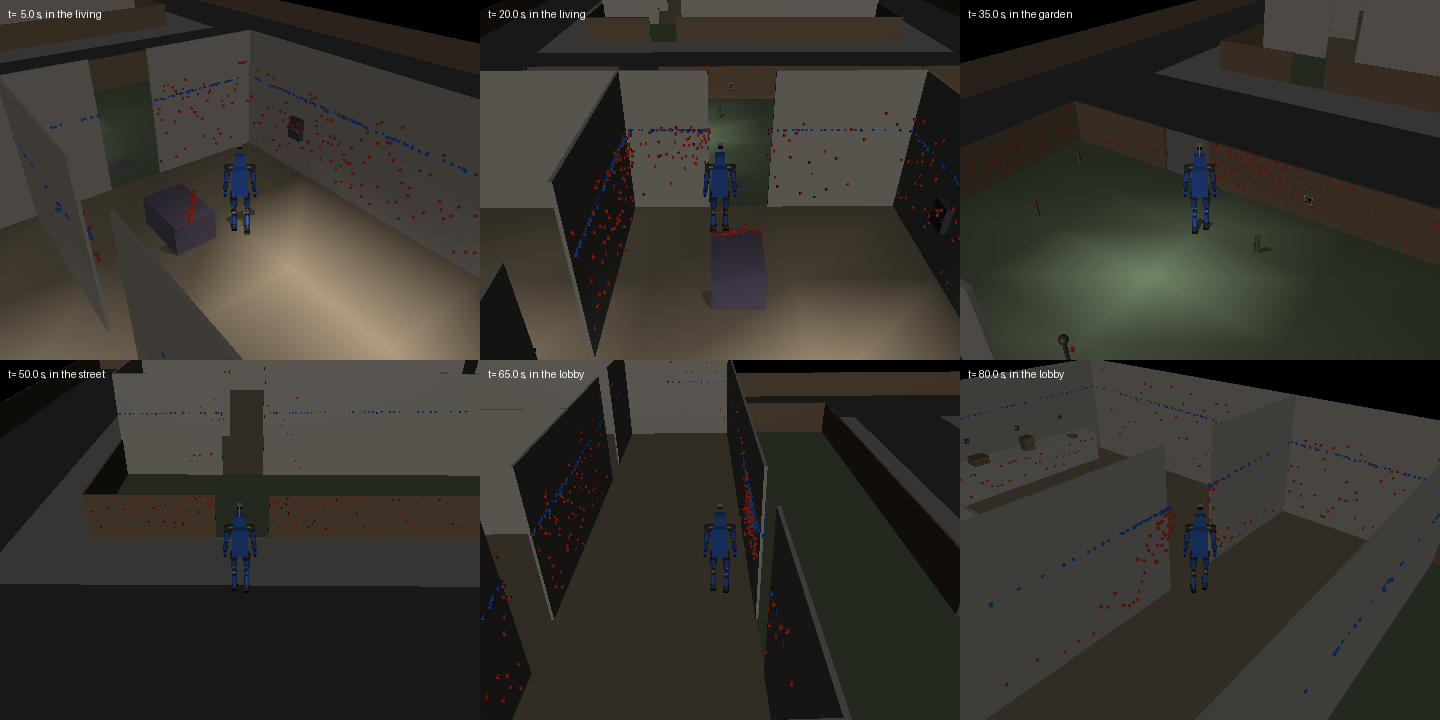
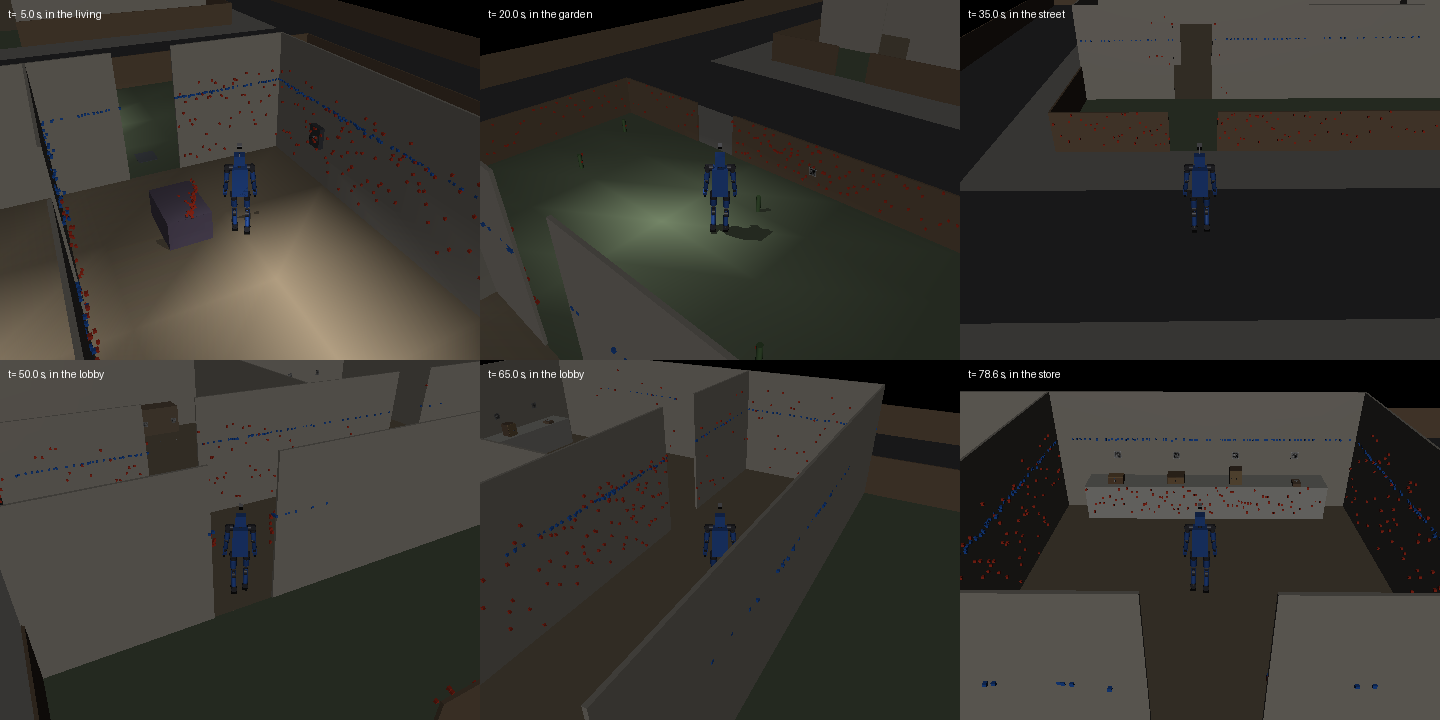
The band re-flown after the review: drift 14 of 14, its belief a median 0.11 m off after the explore; the docs, the walk's figure (#581, stage 1)
- The band's drift batch, flown on 97fc4f8 (the median): 14 of 14 docked,
  none lost, every trip home within 0.1 m, the belief off a median 0.11 m
  as the explore ended (0.29 on the band's first version, 0.16 after the
  first review round; the level ring 0.39, the C1 0.42). The probe is
  unchanged: no outdoor place's heading unpinned.
- The station on the band: the approach 11 of 15, the lost search 15 of
  16 (a search begun 1.03 m off), the walk-in 16 of 16. Over the band's
  three versions the dock missed 5, 2 and 4 of 47, the same failure: still
  stage 2's.
- SimNotes, CLAUDE.md and Parts.md: the band reads a surface by its
  returns' median, and what that costs (0.5 ms a frame on the dev box).
- `lidar_spike.py --strip` takes a last tile where the walk ends when its
  row has room; the figure drawn again on the final band.

Part of #581.

diff --git a/scripts/lidar_spike.py b/scripts/lidar_spike.py
@@ -402,14 +402,16 @@ def walk_world_start():
 
 
 def strip(out: str = "lidar_spike.png", tiles: int = 9, w: int = 480, h: int = 360) -> None:
-  """The walk's filmstrip: a tile every 15 s from 5 s, the returns drawn,
-  each labelled with where the robot truly is."""
+  """The walk's filmstrip: a tile every 15 s from 5 s, and one where the
+  walk ends if its row has room, the returns drawn, each labelled with
+  where the robot truly is."""
   from PIL import Image, ImageDraw
   from station_spike import zone_of
   model, data, body = walk_world()
   eye = watcher(model, body)
   r = mujoco.Renderer(model, h, w)
   shots: list = []
+  cols = 3
   due = [5.0 + k * 15.0 for k in range(tiles)]
 
   def shot():
@@ -430,9 +432,11 @@ def strip(out: str = "lidar_spike.png", tiles: int = 9, w: int = 480, h: int = 3
 
   body.step_hooks.append(shot)
   body.run(walk_routine(body))
+  if len(shots) % cols:
+    due[:] = [data.time]
+    shot()
   body.close()
   r.close()
-  cols = 3
   rows = math.ceil(len(shots) / cols)
   sheet = Image.new("RGB", (cols * w, rows * h), (0, 0, 0))
   for k, img in enumerate(shots):

diff --git a/src/pluggybot/perception/lidar.py b/src/pluggybot/perception/lidar.py
@@ -20,7 +20,7 @@ What it answers:
                      (#581's stage 1; its stage 2 lays the band instead)
   cloud              every return, a point in the sensor's frame, the
                      room's and another robot's apart
-  band               the cloud laid flat: per bearing the nearest return
+  band               the cloud laid flat: per bearing the nearest surface
                      `BAND_M` over the floor, levelled through the robot's
                      IMU -- a 2D scan from every ring (flown, not served)
 

diff --git a/docs/SimNotes.md b/docs/SimNotes.md
@@ -3835,12 +3835,12 @@ legs; and why the wide search took back none of them.
 
 ## The 3D LIDAR on the head (issue #581, stage 1)
 
-**What is true now.** The humanoid's LIDAR is a Livox Mid-360S, upside
-down on a bracket over its head (Parts.md, "The LIDAR"): its field is +7 down
-to -52 deg, its rays leave 1.47 m up standing. Its LEVEL RING, the 360
-bearings at 0 deg, is the scan the map is laid from and matched by, as the
-RPLIDAR C1's plane was, 5 cm higher: served, it behaves as the C1 did. Its
-points LAID FLAT -- per bearing the nearest 0.15-2.2 m over the floor,
+**What is true now.** The humanoid's LIDAR is a Livox Mid-360S, upside down
+on a bracket over its head (Parts.md, "The LIDAR"): its field is +7 down to
+-52 deg, its rays leave 1.47 m up standing. Its LEVEL RING, the 360 bearings
+at 0 deg, is the scan the map is laid from and matched by, as the RPLIDAR
+C1's plane was, 5 cm higher: served, it behaves as the C1 did. Its points
+LAID FLAT -- per bearing the nearest surface 0.15-2.2 m over the floor,
 through the IMU's tilt (`Lidar.band`) -- see the house's 0.9 m fences, the
 couch, the tables and the beds, and are a measurement's switch
 (`HumanoidMission.band`) until stage 2 serves them. Flown with them, the 14
@@ -3849,11 +3849,12 @@ raised to 1.8 m. A full frame costs 14-17 ms on the deploy box, and two
 robots casting it at 10 Hz ran at about real time (0.97-1.15x).
 
 ![The 3D LIDAR on the head: a humanoid walks from the living room out by
-the garden's gate, across the street and into the lobby, its map laid from
-its points laid flat; red, each bearing's nearest return 0.15-2.2 m over
-the floor -- the couch, the fences, the walls' lower halves -- and blue,
-the level ring its map is laid from as served, the buildings' walls alone;
-a tile every 15 s (`lidar_spike.py --strip`)](figures/humanoid_lidar_walk.png)
+the garden's gate, across the street and through the lobby to the
+storeroom, its map laid from its points laid flat; red, each bearing's
+nearest return 0.15-2.2 m over the floor -- the couch, the fences, the
+walls' lower halves -- and blue, the level ring its map is laid from as
+served, the buildings' walls alone; a tile every 15 s and one as it
+arrives (`lidar_spike.py --strip`)](figures/humanoid_lidar_walk.png)
 
 **The part.** Livox's Mid-360S (its sheet: 360 x 59 deg, 200,000 points a
 second at 10 Hz, a range's sigma <= 2 cm at 10 m and <= 4 cm at 0.2 m, 0.15
@@ -3912,7 +3913,12 @@ out (the C1's model's, carried); one nearer than 0.1 m is no reading, as a
 self-hit is none. Its own robot's returns are dropped, another robot's
 split out for the front stop (#316), its noise its robot's own
 (`imu.seed_for`; the C1's model drew both robots' from seed 0) and kept
-across a restart.
+across a restart. Laid flat, a bearing reads the nearest surface in the
+band by the median of its returns within 3 sigma of the nearest: a dozen
+rings or more strike a wall on each bearing, and the least of their noisy
+ranges read every wall 1.7 sigma short, 6.4 cm in the test's room, a map
+cell into it; the median reads 0.5 cm short
+(`test_the_band_reads_a_wall_where_it_stands`).
 
 **The policies on the new head.** Flown again on it beside today's staging
 (`humanoid_spike.py --shove`, `--track`, `--fall`), none retrained:
@@ -3942,16 +3948,18 @@ tightly as the G1's.
 | the band, laid flat from it | 16.4 | 14.2, 17.8 |
 | a D435 frame, 8,400 rays | 12.4 | 10.7, 10.9 |
 
-Almost all of it is the cast (15.0 ms of the dev box's 16.1). ⚠ It casts
-with no cutoff, as the C1's did: MuJoCo culls a plane by its centre's
-distance, and cut off at 8 m every ray that met the house's floor -- its
-centre 19 m off at the loop's far end -- read nothing (`test_the_floor_is_
-struck_however_far_its_middle`); the floor is under the band and outside
-the ring, so no flight below moved, and the cutoff saved no time. The
-box's frames vary by a fifth from one run to the next, on an idle box: it
-is a shared VPS.
-The pair's real-time multiple there (`humanoid_spike.py --speed --band`,
-one core, each run its own container, the trees interleaved):
+Almost all of it is the cast (15.0 ms of the dev box's 16.1); reading each
+bearing by its median (above) costs 0.5 ms a frame more than by its nearest
+return (1.8 ms against 1.3 to lay a frame flat, the same places on the dev
+box, after this table was measured). ⚠ It casts with no cutoff, as the C1's
+did: MuJoCo culls a plane by its centre's distance, and cut off at 8 m every
+ray that met the house's floor -- its centre 19 m off at the loop's far end
+-- read nothing (`test_the_floor_is_ struck_however_far_its_middle`); the
+floor is under the band and outside the ring, so no flight below moved, and
+the cutoff saved no time. The box's frames vary by a fifth from one run to
+the next, on an idle box: it is a shared VPS. The pair's real-time multiple
+there (`humanoid_spike.py --speed --band`, one core, each run its own
+container, the trees interleaved):
 
 | the pair, x real time | runs |
 |---|---|
@@ -3983,7 +3991,7 @@ heading.
 
 The level ring is the C1's plane, to the place; the band pins every
 outdoor place's heading, as #572's bare sensor did, with the robot's own
-body in the way of its rays (in the middle street 52 % of places in all
+body in the way of its rays (in the middle street 49 % of places in all
 three directions and the rest held along the street).
 
 **The drift batch** (`humanoid_drift_spike.py --band`): #572's 14 flights,
@@ -3994,46 +4002,55 @@ band, beside #572's on the C1 and its re-fly with the fences at 1.8 m:
 |---|---|---|---|---|
 | docked | 4 of 14 | 14 of 14 | 7 of 14 | 14 of 14 |
 | lost | 9 | 0 | 6 | 0 |
-| middle street: scans fixed in every direction | 0 % (82 % nothing to match) | 99 % | 0 % (84 %) | 98 % |
-| gardens | 44 % | 100 % | 44 % | 99 % |
-| sidewalks and outer streets | 17 % (59 % held) | 70 % (30 %) | 9 % (71 %) | 86 % (14 %) |
+| middle street: scans fixed in every direction | 0 % (82 % nothing to match) | 99 % | 0 % (84 %) | 95 % (5 % held) |
+| gardens | 44 % | 100 % | 44 % | 100 % |
+| sidewalks and outer streets | 17 % (59 % held) | 70 % (30 %) | 9 % (71 %) | 100 % |
 | the rooms | 94 % | 100 % | 99 % | 100 % |
 
-With the band no flight was lost, the worst error anywhere 1.64 m (Rowan's
-stand in the street, put right at the station), home from the storeroom
-within 0.0-0.9 m. The level ring lost 6 where the C1 lost 9: one is the
-other, the street blind to both, a flight's luck on where it walked.
+With the band no flight was lost: its belief was off by a median 0.11 m as
+the explore ended (the level ring's 0.39, the C1's 0.42), every trip ended
+home within 0.1 m, and the worst error anywhere, 1.66 m, was a fall's
+get-up in the living room, put right by the wide search 5 s later. The
+band was flown at each of its three versions -- binned by the bearing its
+ray was cast on, then by its own bearing levelled, then read by its median
+-- and docked 14, 13 and 14 (the one lost, a walk the planner found no
+route for), off a median 0.29, 0.16 and 0.11 m after the explore. The level
+ring lost 6 where the C1 lost 9: one is the other, the street blind to
+both, a flight's luck on where it walked.
 
 **The station's batches** (`station_spike.py`, staging, the level ring and
 the band):
 
 | | staging | level ring | band |
 |---|---|---|---|
-| `--approach`: docked and unplugged | 15 of 15 | 15 of 15 | 13 of 15 |
+| `--approach`: docked and unplugged | 15 of 15 | 15 of 15 | 11 of 15 |
 | `--lost`, belief 0.4-1 m wrong: docked | 16 of 16 | 15 of 16 | 15 of 16 |
-| `--walk-in`, from 8 places, explored 120 and 240 s: docked | 16 of 16 | 14 of 16 | 14 of 16 |
+| `--walk-in`, from 8 places, explored 120 and 240 s: docked | 16 of 16 | 14 of 16 | 16 of 16 |
 
 Staging docked all 47; the level ring missed 3 (a search begun 0.95 m off,
 where #572 found the search reaches about a metre and staging found it;
 a walk from the lobby across the street out of time, #572's known way to
 fail; and a seat it stepped back and forth round, 4-8 cm either side, in
-strides of about 10 cm, until its steps ran out); the band missed 5, every
-one at the dock.
+strides of about 10 cm, until its steps ran out); the band missed 5, four
+at the dock and a search begun 1.03 m off. Over the band's three versions
+the dock missed 5, 2 and 4 of the 47, and the same 15 starts docked 13, 15
+and 11: which start misses is a draw, the failure the same.
 
-**With the band, the dock is where it is not yet right.** Four of its
-five misses pushed the plug into the funnel three or four times and the
-port never took it; the fifth found and fixed the station and never lined
-up on the seat. Flown again, one of the misses: its matcher moved the
-belief 264 times through the dock against 77 on the level ring, 38 cm of
-moves against 19, at the station's near returns (its box, its cup and
-plug, 0.3-0.5 m off); the seat it steps to and the reach to the plug are
-both placed through that belief, and it took a seat 3.4 cm off and missed
-from it every try. Made its own to the LIDAR -- held or parked -- the
-plug's returns gone, the same start docked in one push; owned only while
-the hand held it, it missed again: it is the station's near returns under
-the matcher, not what the hand carries. Near, the part is noisier than the
-C1's model was (its sheet's 4 cm at 0.2 m, against 1.4 cm at 0.4 m), and
-the level ring's one seat lost (above) is the same failure, once.
+**With the band, the dock is where it is not yet right.** Each miss there
+either pushed the plug into the funnel three or four times and the port
+never took it, or never lined up on the seat. Flown again, one of the first
+version's misses: its matcher moved the belief 264 times through the dock
+against 77 on the level ring, 38 cm of moves against 19, at the station's
+near returns (its box, its cup and plug, 0.3-0.5 m off); the seat it steps
+to and the reach to the plug are both placed through that belief, and it
+took a seat 3.4 cm off and missed from it every try. Made its own to the
+LIDAR -- held or parked -- the plug's returns gone, the same start docked in
+one push; owned only while the hand held it, it missed again: it is the
+station's near returns under the matcher, not what the hand carries; read by
+its median, the near returns' bias gone, it misses as often. Near, the part
+is noisier than the C1's model was (its sheet's 4 cm at 0.2 m, against 1.4
+cm at 0.4 m), and the level ring's one seat lost (above) is the same
+failure, once.
 
 **The energy table is not re-priced here; the reserve is.** On this head
 the explore drew 173.8 W (12.35 Wh over 256 s; staging, the same day,

diff --git a/CLAUDE.md b/CLAUDE.md
@@ -516,26 +516,29 @@ save a filmstrip PNG named after the script.
 - **The humanoid's LIDAR is a Livox Mid-360S, upside down over its head**
   (#581 stage 1; `perception/lidar.py`, `HumanoidSpec.lidar_rise`,
   `tests/test_lidar.py`; Parts.md, "The LIDAR"; SimNotes, "The 3D LIDAR on
-  the head"): a frame is 30 rings 2 deg apart, -52 to +6, 360 bearings
-  each, ONE `mj_multiRay`, with its sheet's range and angle noise and its
-  0.1 m blind zone (no reading, as a self-hit is none); its robot's own
-  returns dropped, another robot's split out (#316), its noise its robot's
-  own (`imu.seed_for`). ⚠ ITS LEVEL RING IS THE SCAN THE MAP IS LAID FROM,
-  as the C1's plane was. Its points LAID FLAT -- per bearing the nearest
-  0.15-2.2 m over the floor, through the IMU's tilt (`Lidar.band`) -- see
-  the fences, the tables and the couch, and `HumanoidMission.band` is a
-  measurement's switch, never a deployment's, until #581's stage 2 serves
-  it. ⚠ ITS RAYS LEAVE 10 cm OVER THE HEAD'S TOP, 5 mm under the unit (cast
-  from inside it, every ray hit it): the steepest, -52 deg, clears the head
-  ahead and either side; at the C1's 4.7 cm the head hid every ray under
-  31-35 deg. ⚠ A FRAME COSTS 14-17 ms on the deploy box (the level ring
-  0.5-0.7, a D435 frame 11): with the band at 10 Hz the pair ran at about
-  real time (0.97-1.15x, `humanoid_spike.py --speed --band`): stage 2
-  casts 15 rings at 10 Hz (Ben's call 3, 2026-11-01; 1.17-1.42x). ⚠
-  WITH THE BAND, A DOCK'S MATCHER MOVED THE BELIEF 3.4 TIMES AS OFTEN at the
+  the head"): a frame is 30 rings 2 deg apart, -52 to +6, 360 bearings each,
+  ONE `mj_multiRay`, with its sheet's range and angle noise and its 0.1 m
+  blind zone (no reading, as a self-hit is none); its robot's own returns
+  dropped, another robot's split out (#316), its noise its robot's own
+  (`imu.seed_for`). ⚠ ITS LEVEL RING IS THE SCAN THE MAP IS LAID FROM, as
+  the C1's plane was. Its points LAID FLAT -- per bearing the nearest
+  surface 0.15-2.2 m over the floor, through the IMU's tilt (`Lidar.band`)
+  -- see the fences, the tables and the couch, and `HumanoidMission.band` is
+  a measurement's switch, never a deployment's, until #581's stage 2 serves
+  it. ⚠ A SURFACE IS READ BY ITS RETURNS' MEDIAN, never the nearest return:
+  a dozen rings strike a wall, and the least of their ranges read every wall
+  6 cm short. ⚠ ITS RAYS LEAVE 10 cm OVER THE HEAD'S TOP, 5 mm under the
+  unit (cast from inside it, every ray hit it): the steepest, -52 deg,
+  clears the head ahead and either side; at the C1's 4.7 cm the head hid
+  every ray under 31-35 deg. ⚠ A FRAME COSTS 14-17 ms on the deploy box (the
+  level ring 0.5-0.7, a D435 frame 11): with the band at 10 Hz the pair ran
+  at about real time (0.97-1.15x, `humanoid_spike.py --speed --band`):
+  stage 2 casts 15 rings at 10 Hz (Ben's call 3, 2026-11-01; 1.17-1.42x).
+  ⚠ WITH THE BAND, A DOCK'S MATCHER MOVED THE BELIEF 3.4 TIMES AS OFTEN at the
   station's near returns, and the seat and the plug-in, placed through it,
-  failed 5 docks in 47 (the level ring 1, staging none): stage 2's to
-  settle. ⚠ NO CUTOFF ON THE CAST: MuJoCo culls a plane by its centre.
+  failed 2-5 docks in 47 over the band's three versions (the level ring 1,
+  staging none): stage 2's to settle. ⚠ NO CUTOFF ON THE CAST: MuJoCo culls
+  a plane by its centre.
 - **A humanoid is told its own body and world** (#559 stages 3 and 5;
   `Menu.kinds`, `hands_procedure_rule`, `steps.served_hand_facts`;
   `tests/test_humanoid_words.py`; Overseer.md §8b): ⚠ ITS WORDS ARE THE ONLY

diff --git a/docs/Parts.md b/docs/Parts.md
@@ -110,8 +110,8 @@ dropped, another robot's split out (#316), its noise its robot's own.
 
 **What it answers** (SimNotes, "The 3D LIDAR on the head"): its LEVEL RING,
 the 360 bearings at 0°, is the scan the map is laid from, as the C1's plane
-was; its points LAID FLAT -- per bearing the nearest 0.15-2.2 m over the
-floor, through the IMU's tilt (`Lidar.band`) -- see the fences, the
+was; its points LAID FLAT -- per bearing the nearest surface 0.15-2.2 m
+over the floor, through the IMU's tilt (`Lidar.band`) -- see the fences, the
 tables, the couch and the bed, and are a measurement's switch until #581's
 stage 2 serves them (`HumanoidMission.band`).
 
